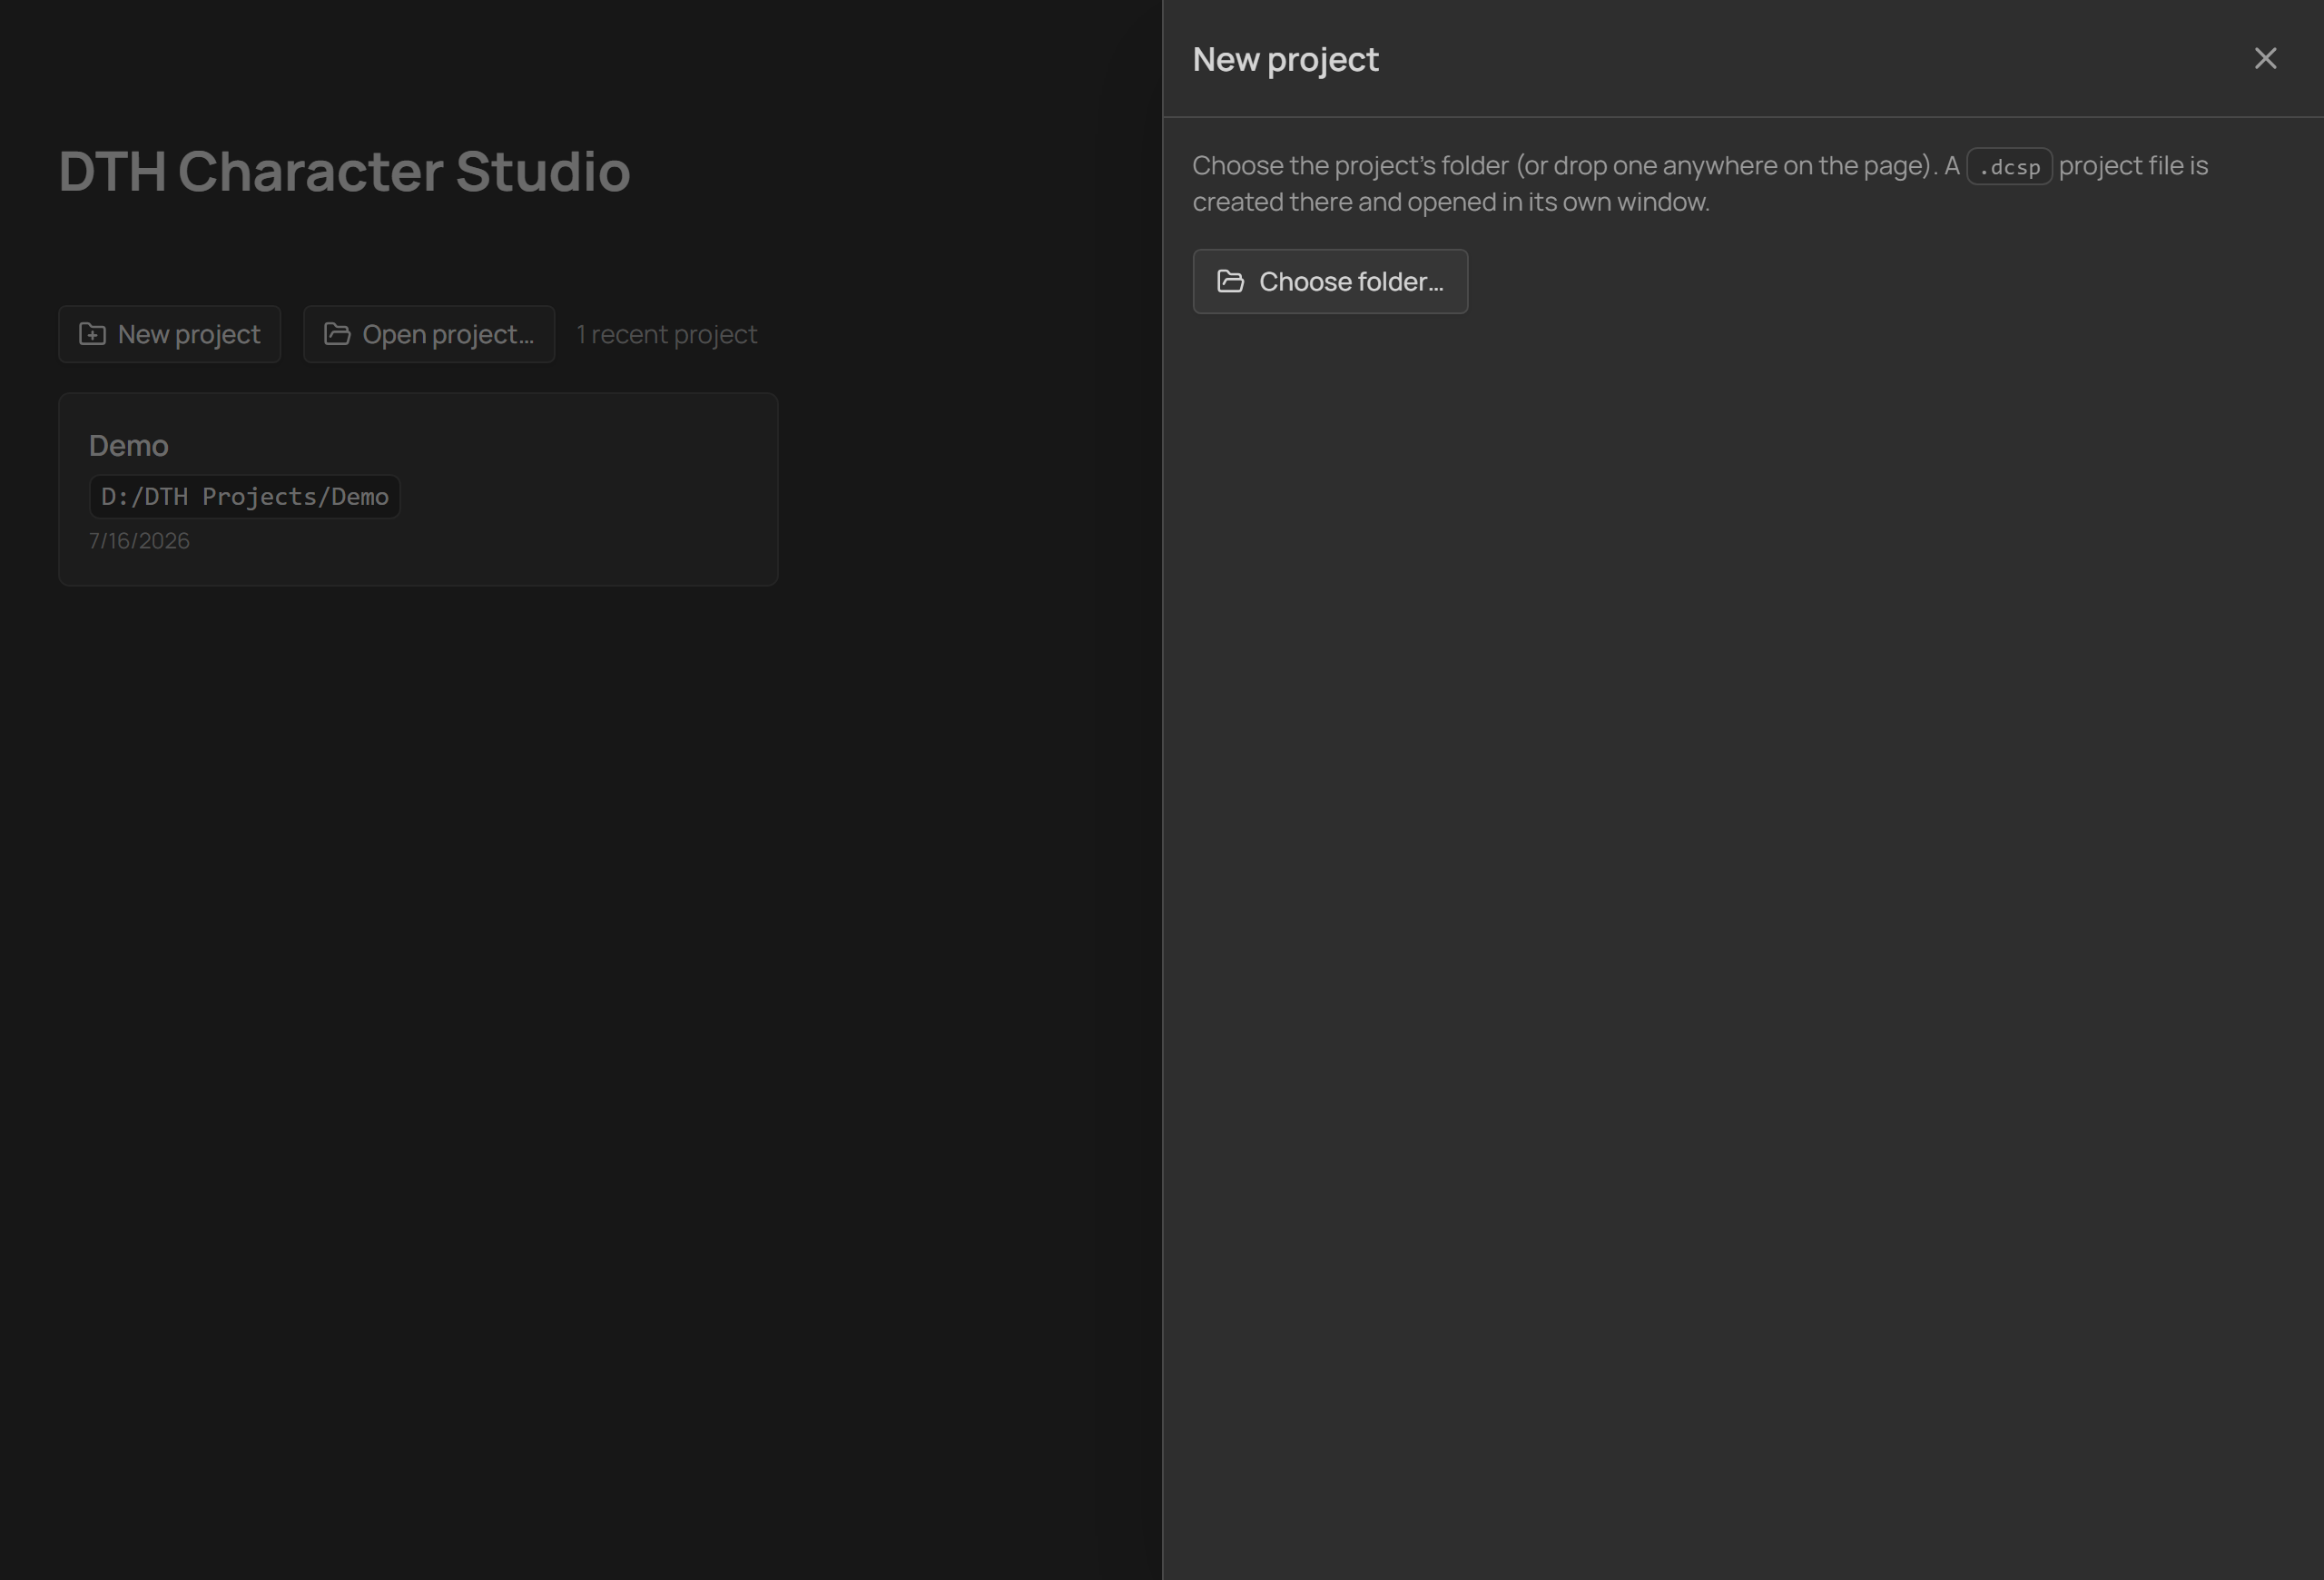
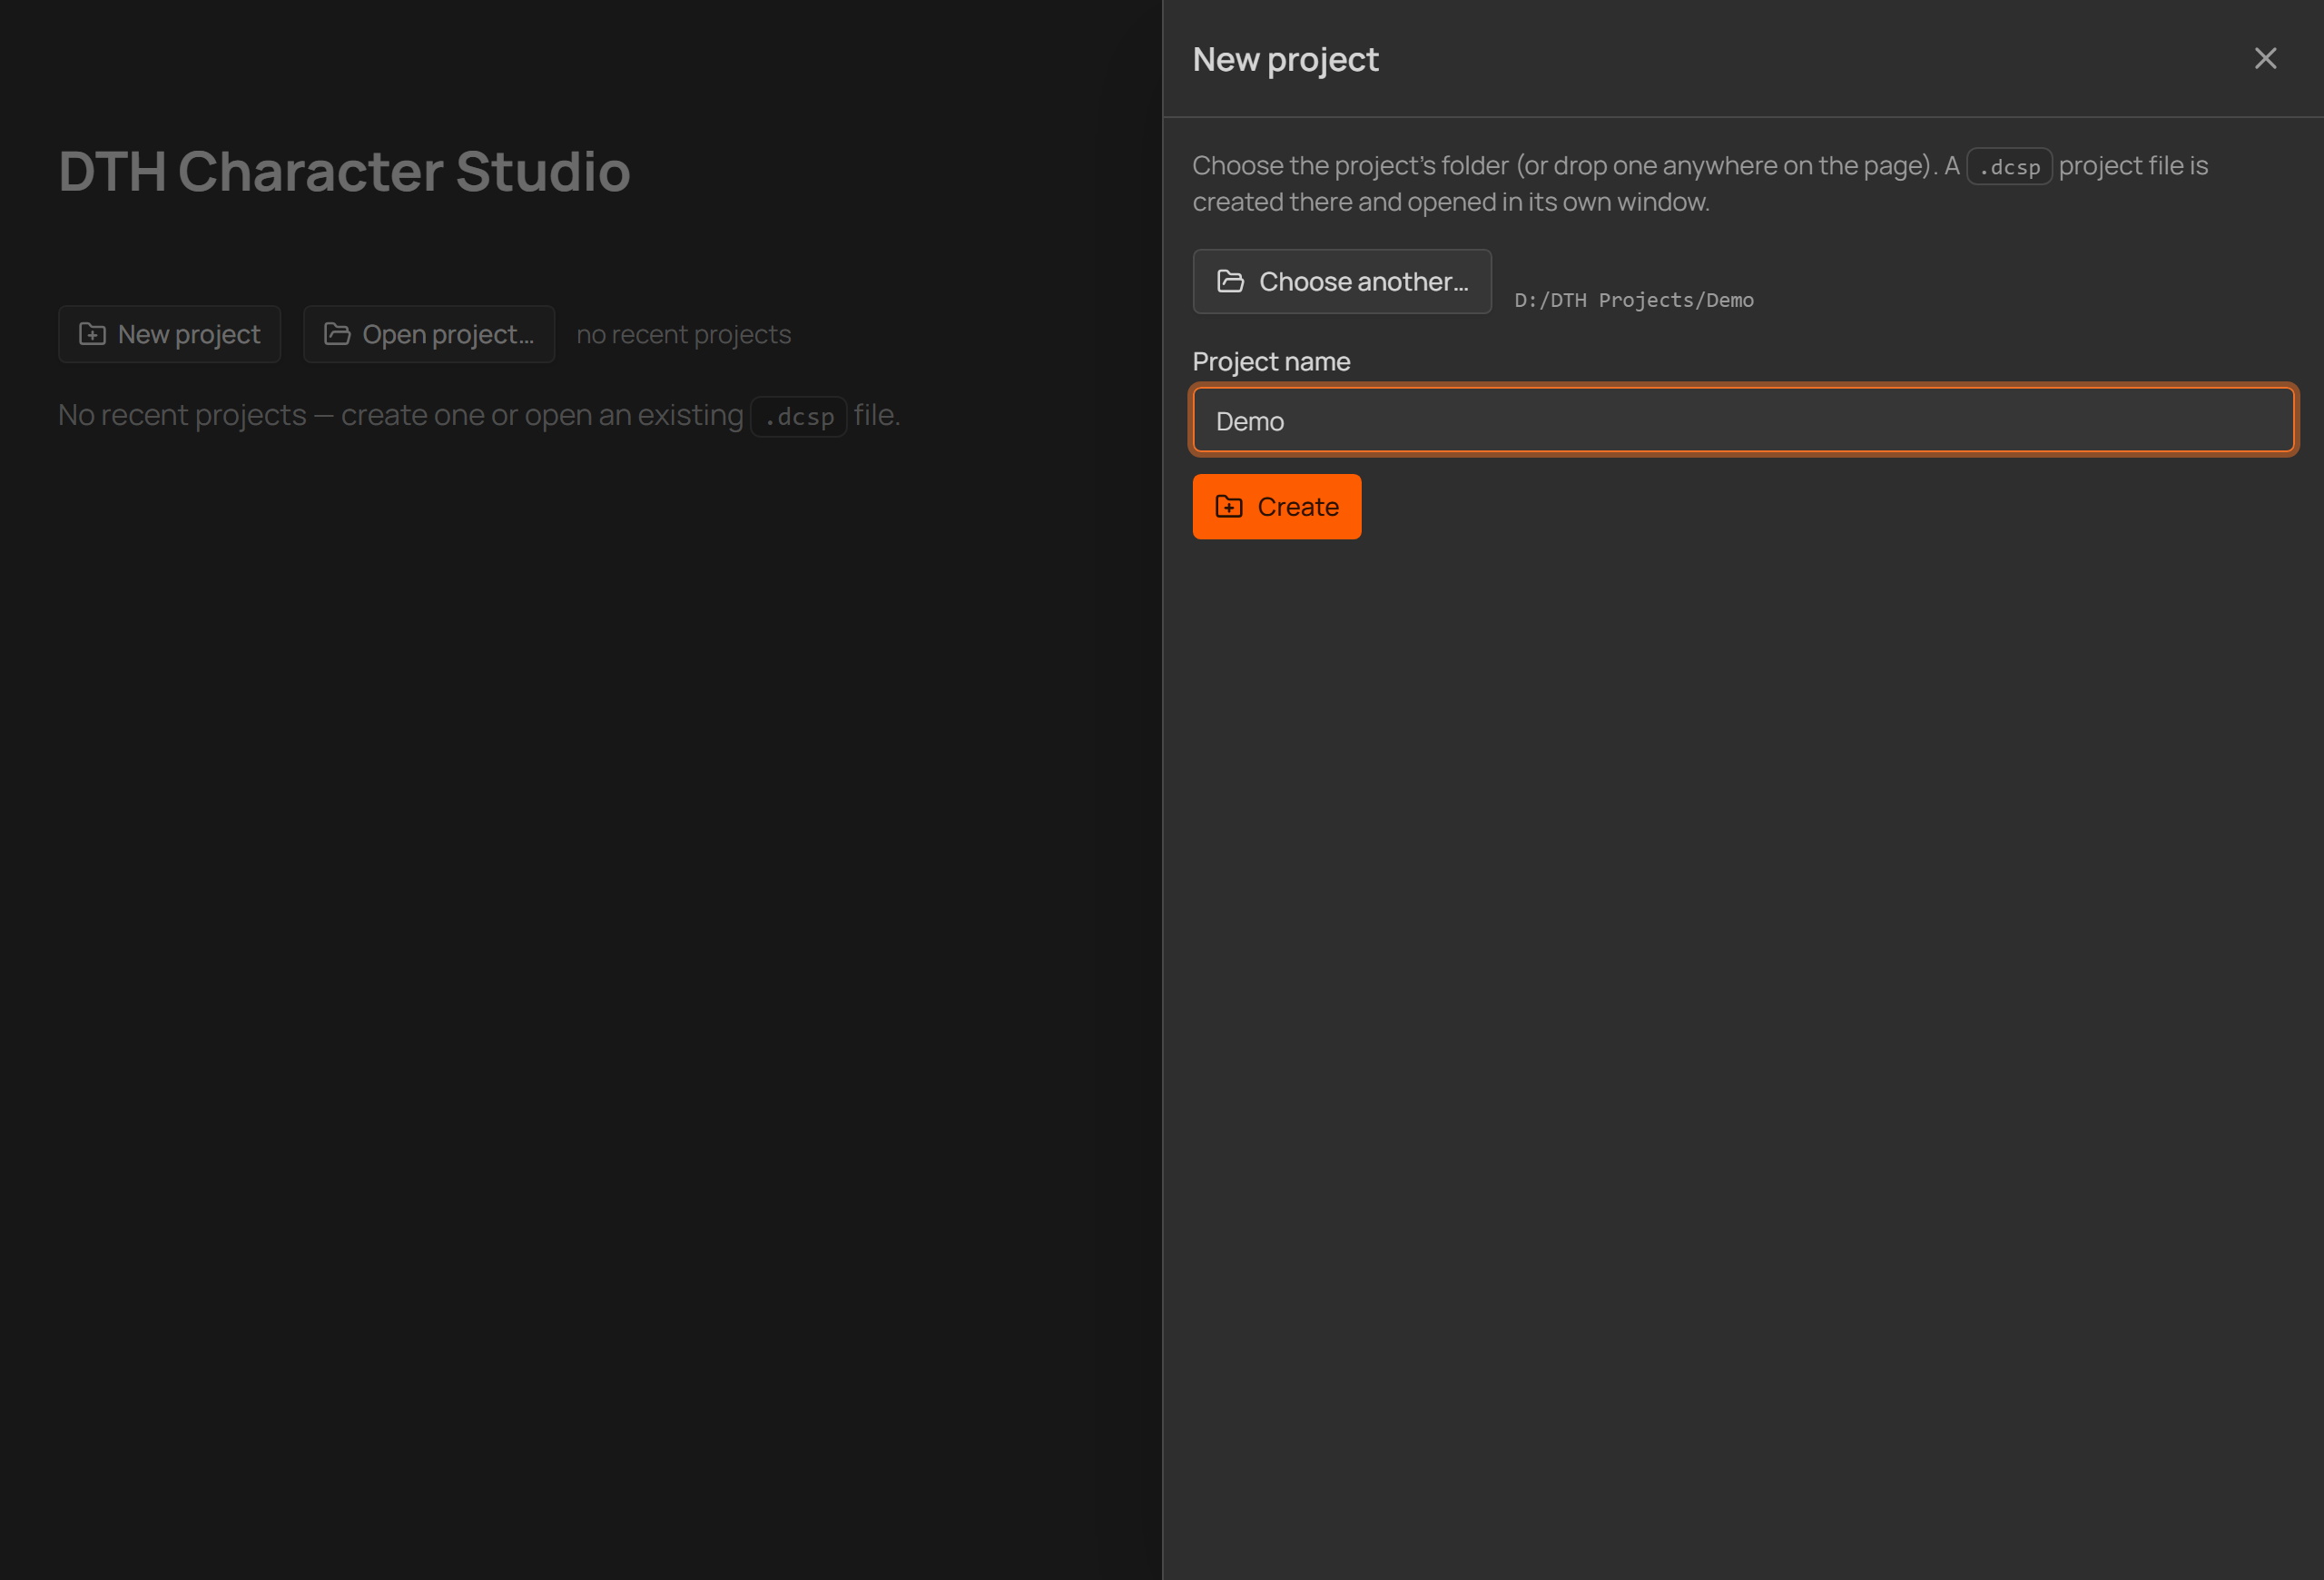
fix(web): percentage morph-value fields + finish automated guide screenshots (#386)
* Update 02-setup.md

* fix(web): show morph values as percentages; two more automated guide screenshots

Morph-value fields now show and edit as Daz-style percentages (100%, 33%)
instead of raw 0-1 numbers, matching the ROM pose value cells:
- Advanced options -> "Preserve morphs after ROM loading" hold value.
- Modify JCM frames -> "Value from" / "Value to" (Angle fields stay degrees).
NumberField gains a `percent` mode; the JCM grid's RawNumberCell too (reusing
cells.tsx valueToPct/pctToValue). Values are still stored 0-1 — generation is
unchanged.

Also two guide screenshots now regenerate automatically instead of via CDN:
- home-new-project: the New-project form filled in (chosen folder + name).
- project-open-window: the freshly-created empty project window (replaces the
  last user-attachments image in "Your first project").

Claude-Session: https://claude.ai/code/session_01MKnbVdQ2TZdNQp8vMFR2ii

---------

diff --git a/apps/web/src/components/rom/jcm-mods-grid.tsx b/apps/web/src/components/rom/jcm-mods-grid.tsx
@@ -1,9 +1,9 @@
-import { useEffect, useState } from 'react'
+import { useCallback, useEffect, useState } from 'react'
 import { ChevronRight, FlipHorizontal2, Plus, Trash2 } from 'lucide-react'
 
 import { Button, InfoPopup, Select, SelectContent, SelectItem, SelectTrigger, SelectValue } from '@dth/ui'
 
-import { cellInputClass } from './cells.tsx'
+import { cellInputClass, pctToValue, valueToPct } from './cells.tsx'
 import { MorphNameCell } from './morph-name-cell.tsx'
 
 import type { JcmMorphMod } from '@dth/rom'
@@ -71,28 +71,46 @@ function RawNumberCell({
   value,
   title,
   onCommit,
+  percent,
 }: {
   value: number
   title: string
   onCommit: (value: number) => void
+  /** Show/edit the 0–1 morph value as a Daz-style percentage (0–100%), like the
+   *  ROM pose value cells. Angle cells (degrees) stay raw. */
+  percent?: boolean
 }) {
-  const [draft, setDraft] = useState(String(value))
-  useEffect(() => setDraft(String(value)), [value])
-  return (
+  const format = useCallback((v: number) => (percent ? valueToPct(v) : String(v)), [percent])
+  const [draft, setDraft] = useState(() => format(value))
+  useEffect(() => setDraft(format(value)), [value, format])
+  const input = (
     <input
-      className={`${cellInputClass} w-16 text-right tabular-nums`}
+      className={`${cellInputClass} w-16 text-right tabular-nums ${percent ? 'pr-5' : ''}`}
       value={draft}
       title={title}
+      inputMode="decimal"
       onChange={(e) => setDraft(e.target.value)}
       onBlur={() => {
         const parsed = Number(draft)
-        if (Number.isFinite(parsed)) onCommit(parsed)
-        else setDraft(String(value))
+        if (!Number.isFinite(parsed)) {
+          setDraft(format(value))
+          return
+        }
+        onCommit(percent ? pctToValue(parsed) : parsed)
       }}
       onKeyDown={(e) => {
         if (e.key === 'Enter') (e.target as HTMLInputElement).blur()
       }}
     />
+  )
+  if (!percent) return input
+  return (
+    <span className="relative inline-block">
+      {input}
+      <span className="pointer-events-none absolute top-1/2 right-1.5 -translate-y-1/2 text-xs text-muted-foreground">
+        %
+      </span>
+    </span>
   )
 }
 
@@ -290,14 +308,16 @@ export function JcmModsGrid({
                           <td className="pr-1 text-right">
                             <RawNumberCell
                               value={drive.range.value.start}
-                              title="Morph value at the start angle (raw, 1 = 100%)"
+                              percent
+                              title="Morph value at the start angle (100% = full)"
                               onCommit={(n) => patchRange(i, dir, index, 'value', 'start', n)}
                             />
                           </td>
                           <td className="pr-2 text-right">
                             <RawNumberCell
                               value={drive.range.value.end}
-                              title="Morph value at the end angle (raw, 1 = 100%)"
+                              percent
+                              title="Morph value at the end angle (100% = full)"
                               onCommit={(n) => patchRange(i, dir, index, 'value', 'end', n)}
                             />
                           </td>

diff --git a/packages/ui/src/components/number-field.tsx b/packages/ui/src/components/number-field.tsx
@@ -1,4 +1,4 @@
-import { useEffect, useState } from 'react'
+import { useCallback, useEffect, useState } from 'react'
 
 import { Input } from '../primitives/input.tsx'
 
@@ -7,6 +7,7 @@ export function NumberField({
   onCommit,
   className,
   suffix,
+  percent,
 }: {
   value: number
   onCommit: (value: number) => void
@@ -14,12 +15,21 @@ export function NumberField({
   /** Unit overlaid on the right inside the field (e.g. "%"). Pass enough right
    *  padding via className (pr-6) so the number doesn't run under it. */
   suffix?: string
+  /** Show/edit a 0–1 value as a Daz-style percentage (0–100), like the ROM pose
+   *  value cells — the field shows `value * 100` and commits back `pct / 100`.
+   *  Implies a "%" suffix. */
+  percent?: boolean
 }) {
-  const [draft, setDraft] = useState(String(value))
+  // 0–1 ⇄ 0–100 for the percent mode; toFixed trims the *100 / /100 float noise.
+  const format = useCallback(
+    (v: number) => (percent ? String(+(v * 100).toFixed(4)) : String(v)),
+    [percent],
+  )
+  const [draft, setDraft] = useState(() => format(value))
   // Re-sync when `value` changes underneath us — e.g. removing a non-last row of
   // a KeyedListEditor (index keys) reuses this instance with a new `value` prop;
   // without this the field would keep showing (and could commit) the old number.
-  useEffect(() => setDraft(String(value)), [value])
+  useEffect(() => setDraft(format(value)), [value, format])
   const input = (
     <Input
       className={className}
@@ -33,17 +43,21 @@ export function NumberField({
       }}
       onBlur={() => {
         const parsed = Number(draft)
-        if (!Number.isNaN(parsed)) onCommit(parsed)
-        else setDraft(String(value))
+        if (Number.isNaN(parsed)) {
+          setDraft(format(value))
+          return
+        }
+        onCommit(percent ? +(parsed / 100).toFixed(6) : parsed)
       }}
     />
   )
-  if (!suffix) return input
+  const shownSuffix = suffix ?? (percent ? '%' : undefined)
+  if (!shownSuffix) return input
   return (
     <span className="relative inline-block">
       {input}
       <span className="pointer-events-none absolute inset-y-0 right-2.5 flex items-center text-xs text-muted-foreground">
-        {suffix}
+        {shownSuffix}
       </span>
     </span>
   )

diff --git a/apps/web/smoke/guide.screenshots.ts b/apps/web/smoke/guide.screenshots.ts
@@ -235,12 +235,24 @@ test('settings-exporter-plugin', async ({ page }) => {
 })
 
 test('home-new-project', async ({ page }) => {
-  await prime(page, buildSeed())
+  // First-run Home (no recents) + a seeded folder pick, so the create form fills
+  // in with a chosen folder and its auto-derived name instead of staying empty.
+  await prime(page, buildSeed({ emptyRecents: true, dialogPath: P.project }))
   await page.goto('/')
   await page.getByRole('heading', { name: 'DTH Character Studio' }).waitFor()
   await page.getByRole('button', { name: 'New project' }).first().click()
-  // A small modal — the shot trims to just the dialog (min-height case).
+  await page.getByRole('button', { name: /Choose folder/ }).click()
+  // The picked folder + auto-filled name now show — wait for the Create button.
+  await page.getByRole('button', { name: 'Create' }).waitFor()
   await shoot(page, join(OUT, 'home-new-project.png'), page.getByRole('dialog'))
+})
+
+test('project-open-window', async ({ page }) => {
+  // The just-created project, opened in its own window: no characters yet.
+  await prime(page, buildSeed({ activeProjectFile: P.dcsp, emptyProject: true }))
+  await page.goto('/')
+  await page.getByText('No characters yet').waitFor()
+  await shoot(page, join(OUT, 'project-open-window.png'))
 })
 
 /** Exception to the 16:9 cap: shoot from the top of the page DOWN THROUGH

diff --git a/apps/web/smoke/fixtures.ts b/apps/web/smoke/fixtures.ts
@@ -129,6 +129,11 @@ export interface SeedOptions {
   /** Seed a per-scene product-scan CSV into the demo character's scan folder so
    *  the Products tab renders a populated "Matched products" table. */
   productScan?: boolean
+  /** No recent projects — the Home screen's first-run state (create-project shot). */
+  emptyRecents?: boolean
+  /** Omit the character definition, so the project overview shows its empty
+   *  "no characters yet" state (the just-created project window shot). */
+  emptyProject?: boolean
 }
 
 export function buildSeed(opts: SeedOptions = {}): TauriMockSeed {
@@ -169,9 +174,9 @@ export function buildSeed(opts: SeedOptions = {}): TauriMockSeed {
     }),
     // NOTE: no projects.json / network-drives.json — their absence keeps the
     // legacy migration and the drive remapping paths inert at startup.
-    [`${P.appData}/recents.json`]: JSON.stringify([
-      { path: P.dcsp, name: 'Demo', lastOpenedAt: '2026-07-16T00:00:00.000Z' },
-    ]),
+    [`${P.appData}/recents.json`]: JSON.stringify(
+      opts.emptyRecents ? [] : [{ path: P.dcsp, name: 'Demo', lastOpenedAt: '2026-07-16T00:00:00.000Z' }],
+    ),
     [P.dcsp]: JSON.stringify({
       schemaVersion: 2,
       id: 'proj-smoke',
@@ -213,6 +218,10 @@ export function buildSeed(opts: SeedOptions = {}): TauriMockSeed {
     files[`${P.appData}/product-scans/proj-smoke/char-kira/KiraDefault_G9_GP.csv`] =
       PRODUCT_SCAN_CSV
   }
+
+  // A freshly-created project has no characters yet — drop the definition so the
+  // overview renders its empty "no characters yet" state.
+  if (opts.emptyProject) delete files[`${P.charFolder}/Kira.json`]
 
   return {
     files,

diff --git a/apps/web/src/components/rom/cells.tsx b/apps/web/src/components/rom/cells.tsx
@@ -50,10 +50,10 @@ export function TextCell({
 
 // Morph values are stored 0–1 but shown/edited as Daz-style percentages
 // (0–100%); toFixed trims the float noise of the *100 / /100 conversions.
-function valueToPct(v: number): string {
+export function valueToPct(v: number): string {
   return String(+(v * 100).toFixed(4))
 }
-function pctToValue(pct: number): number {
+export function pctToValue(pct: number): number {
   return +(pct / 100).toFixed(6)
 }
 

diff --git a/apps/web/src/components/character/preserve-fields.tsx b/apps/web/src/components/character/preserve-fields.tsx
@@ -42,7 +42,8 @@ export function PreserveFields({
                   onChange={(e) => set({ ...item, name: e.target.value })}
                 />
                 <NumberField
-                  className="w-24"
+                  className="w-24 pr-6 text-right tabular-nums"
+                  percent
                   value={item.keepValue}
                   onCommit={(keepValue) => set({ ...item, keepValue })}
                 />

diff --git a/docs/guide/02-setup.md b/docs/guide/02-setup.md
@@ -21,13 +21,6 @@ extract the downloaded archives somewhere permanent first.
    you can select the **active** one. Adding another release later to the folder won't change the selection!
    You need to actively select the new version in the dropdown and re-install the files for Daz and Houdini.
    
-   <p align="center">
-     <img width="722" alt="Selecting the active DTH release version" src="https://github.com/user-attachments/assets/070c9f98-fcd8-4698-98b8-9a56bf51bc5c" />
-     <br>
-     <sub><em>Pick the active version when several releases are detected.</em></sub>
-   </p>
-
-   
 3. **My DAZ 3D Library** — your Daz content library (where Daz Studio loads content
    from, e.g. `…\Documents\DAZ 3D\Studio\My Library`). Press **Install** below it to
    copy the release's Daz content into the library. **Dry run** previews what would

diff --git a/.changeset/percent-value-fields.md b/.changeset/percent-value-fields.md
@@ -1,0 +1,5 @@
+---
+'@dth/web': patch
+---
+
+Advanced options and Modify JCM frames now show and edit morph values as Daz-style percentages (e.g. `100%`, `33%`) instead of raw `0–1` numbers, matching the ROM pose value cells. Values are still stored 0–1, so generation is unchanged.

diff --git a/docs/guide/03-first-project.md b/docs/guide/03-first-project.md
@@ -22,7 +22,7 @@ The project opens **in its own window**. From now on you can also open it by
 double-clicking the `.dcsp` file in Explorer, or from the Home screen's recent list.
 
 <p align="center">
-  <img width="722" alt="Project open in its own window" src="https://github.com/user-attachments/assets/63172959-d279-43b6-911b-a12b845814c9" />
+  <img width="900" alt="Project open in its own window" src="screenshots/project-open-window.png" />
   <br>
   <sub><em>The project opens in its own window.</em></sub>
 </p>